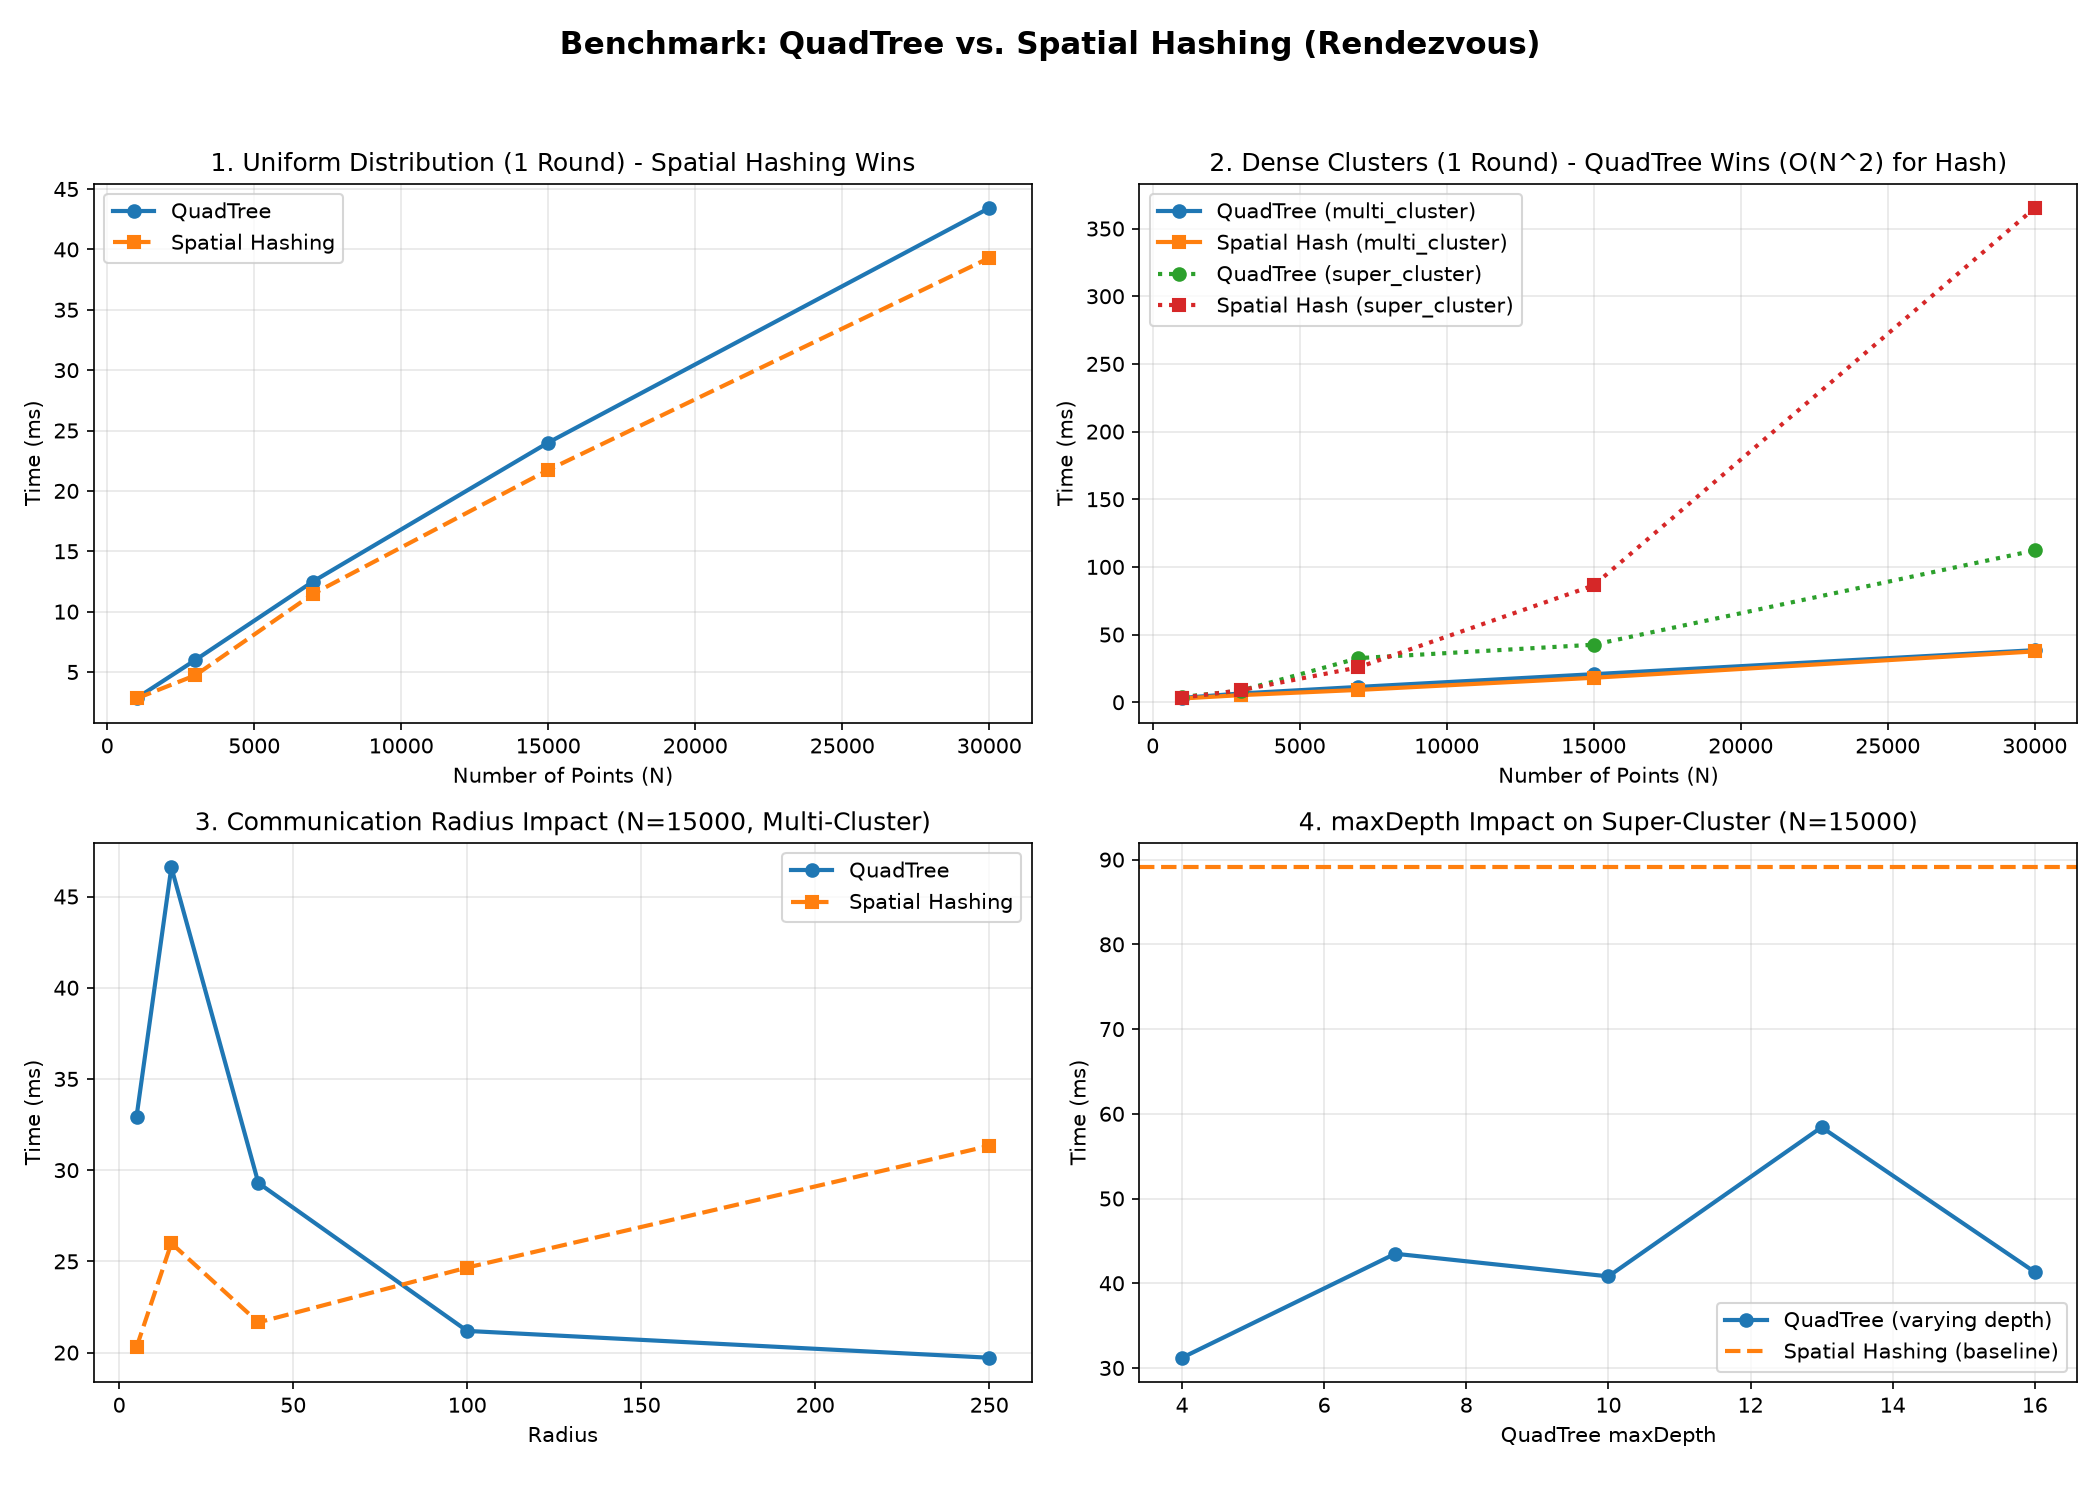
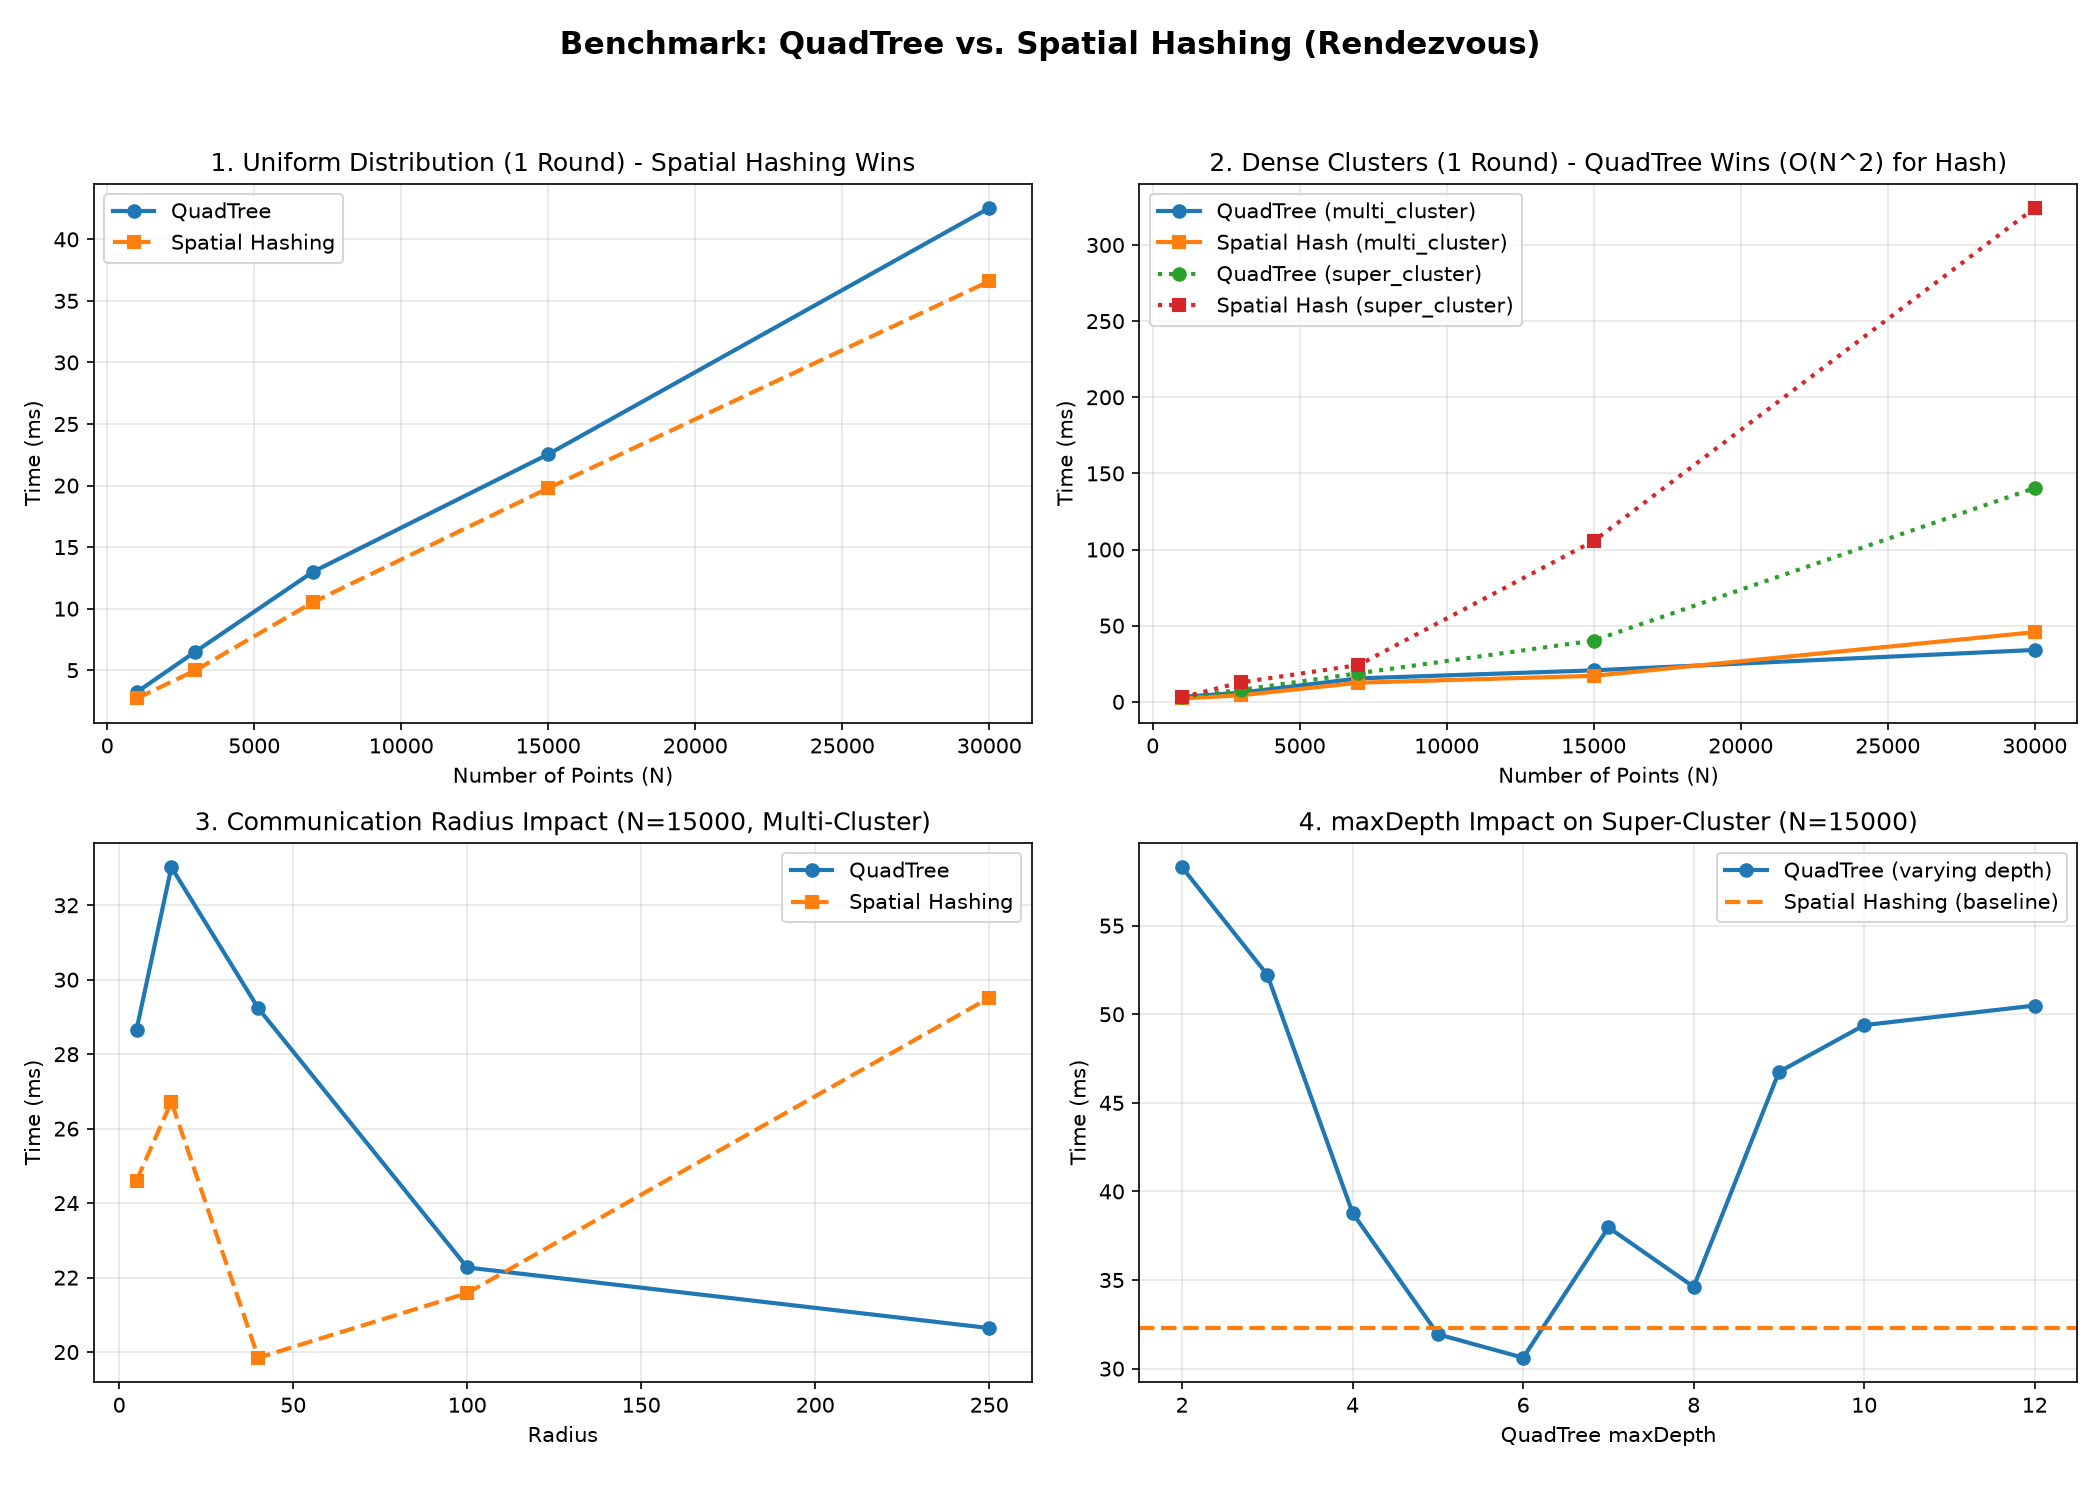
Expand quadtree depth benchmark
Use a dense-cluster dataset to measure quadtree performance across a wider range of maxDepth values, and refresh the benchmark results and plot.

diff --git a/src/lab5/Benchmark/benchmark_quadTree_spatialHashing.py b/src/lab5/Benchmark/benchmark_quadTree_spatialHashing.py
@@ -19,7 +19,7 @@ except ImportError:
 # ==============================================================================
 # BENCHMARK CONFIGURATION
 # ==============================================================================
-SEED = 42
+SEED = 26
 REPEATS = 3               # Number of runs per test (median is taken)
 TEMP_INPUT = "bench_input_tmp.txt"
 CSV_OUTPUT = "benchmark_results.csv"
@@ -256,24 +256,29 @@ def run_all_benchmarks(binary: str) -> list[dict]:
         })
 
     # --------------------------------------------------------------------------
-    # EXPERIMENT 4: QuadTree Tuning (depth & threshold on super_cluster)
+    # EXPERIMENT 4: QuadTree Tuning (vary maxDepth -> U-shaped curve / parabola)
     # --------------------------------------------------------------------------
-    depths = [4, 7, 10, 13, 16]
-    print("\n=== EXPERIMENT 4: QuadTree maxDepth Impact on Super-Cluster (N = 15000, rounds = 1) ===")
-    pts = generate_super_cluster(15000, box_size=20.0)
+    depths = [2, 3, 4, 5, 6, 7, 8, 9, 10, 12]
+    print("\n=== EXPERIMENT 4: QuadTree maxDepth Impact on Dense Clusters (N = 15000, rounds = 1) ===")
+    # Using Gaussian clusters on box_size=500 with radius=25 and threshold=2
+    # so that maxDepth genuinely controls splitting from depth 2 up to 12:
+    # - At depth 2..4: quadrants (250..62.5) > radius (25) -> under-splitting (slow)
+    # - At depth 6..7: quadrants (15.6..7.8) < radius (25) -> optimal O(1) aggregation (minimum!)
+    # - At depth 9..12: quadrants (1.9..0.24) << radius (25) -> over-splitting overhead (slow again)
+    pts = generate_multi_cluster(15000, num_clusters=8, box_size=500.0, cluster_std=12.0)
     write_points_to_file(pts, TEMP_INPUT)
-    sh_ms, sh_rem = run_single_test(binary, "spatial", TEMP_INPUT, rounds=1, depth=10, threshold=8, radius=15.0)
+    sh_ms, sh_rem = run_single_test(binary, "spatial", TEMP_INPUT, rounds=1, depth=7, threshold=2, radius=25.0)
     for d in depths:
-        qt_ms, qt_rem = run_single_test(binary, "quadtree", TEMP_INPUT, rounds=1, depth=d, threshold=8, radius=15.0)
-        print(f"[depth={d:2d} | threshold=8] QT: {qt_ms:8.2f} ms (vs SH: {sh_ms:8.2f} ms)")
+        qt_ms, qt_rem = run_single_test(binary, "quadtree", TEMP_INPUT, rounds=1, depth=d, threshold=2, radius=25.0)
+        print(f"[depth={d:2d} | threshold=2] QT: {qt_ms:8.2f} ms (vs SH: {sh_ms:8.2f} ms)")
         results.append({
             "experiment": "vary_depth",
-            "distribution": "super_cluster",
+            "distribution": "dense_clusters",
             "N": 15000,
             "rounds": 1,
-            "radius": 15.0,
+            "radius": 25.0,
             "depth": d,
-            "threshold": 8,
+            "threshold": 2,
             "qt_ms": qt_ms,
             "sh_ms": sh_ms,
             "qt_remaining": qt_rem,
